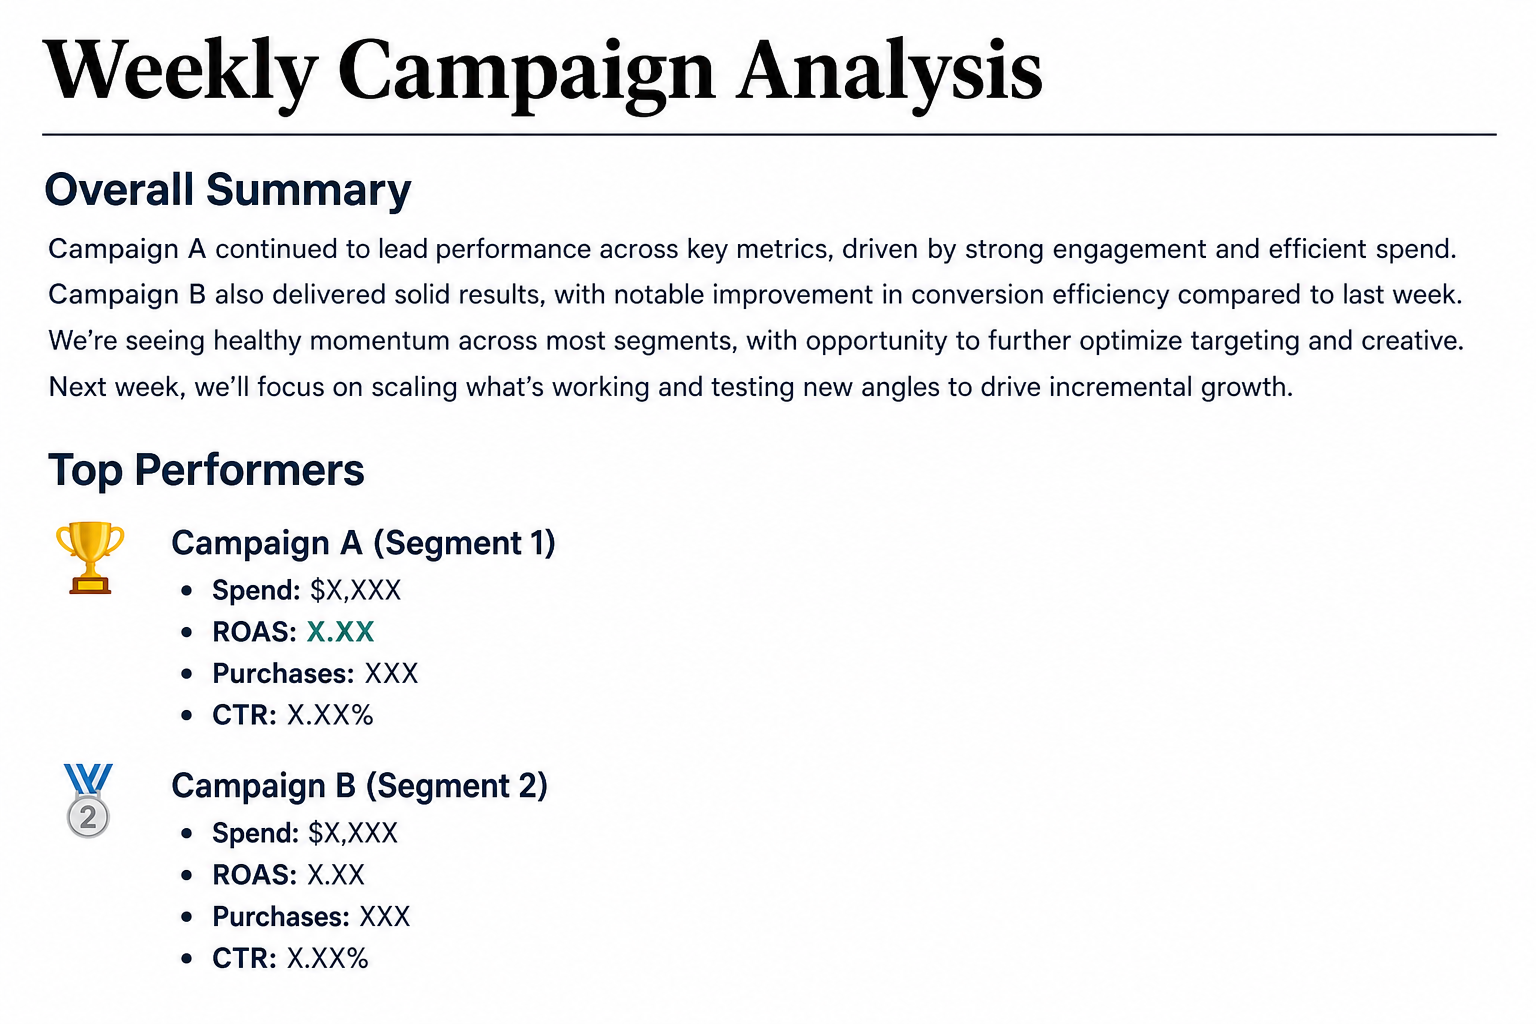
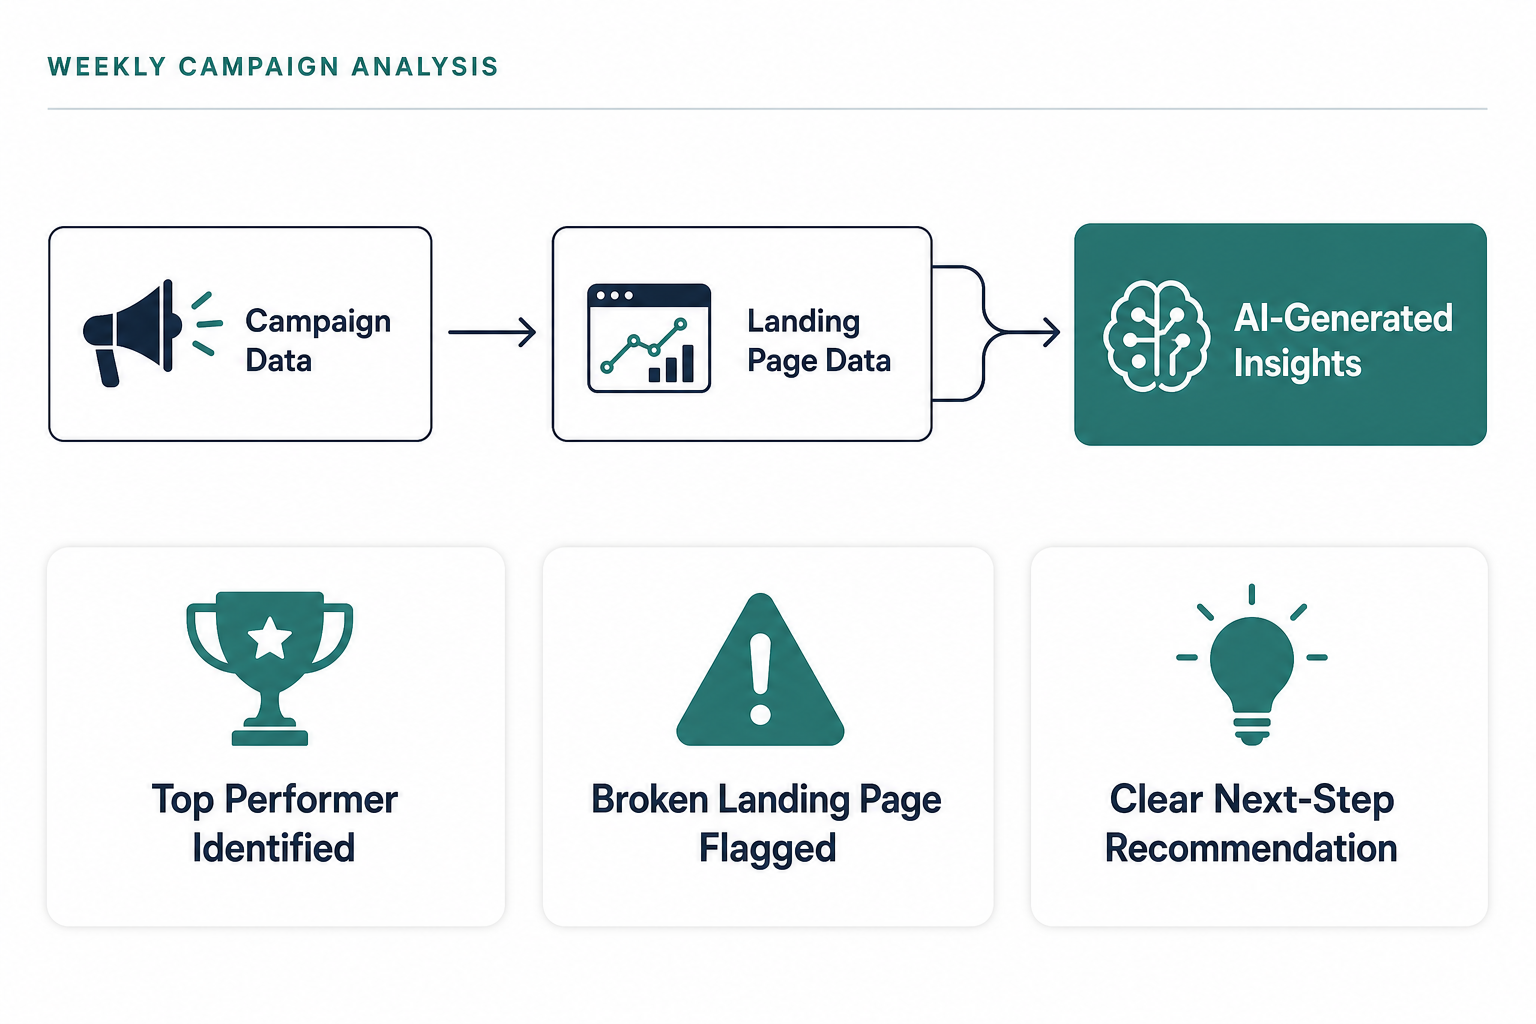
Rework AI Marketing Reporting Copilot cover image.
Replace the text-heavy report excerpt with a lightweight diagram
that highlights the actual value: campaign and landing page data
combining into AI-generated insights and recommendations.

diff --git a/src/content/case-studies.ts b/src/content/case-studies.ts
@@ -35,7 +35,7 @@ export const caseStudies: CaseStudy[] = [
     featured: true,
     coverImage: "/case-studies/ai-marketing-reporting-copilot.png",
     coverImageAlt:
-      "Stylized weekly campaign analysis report with anonymized placeholder metrics",
+      "Diagram showing campaign and landing page data combining into AI-generated insights, with callouts for top performer, broken landing page, and next-step recommendation",
   },
   {
     slug: "marketing-forecasting-framework",
